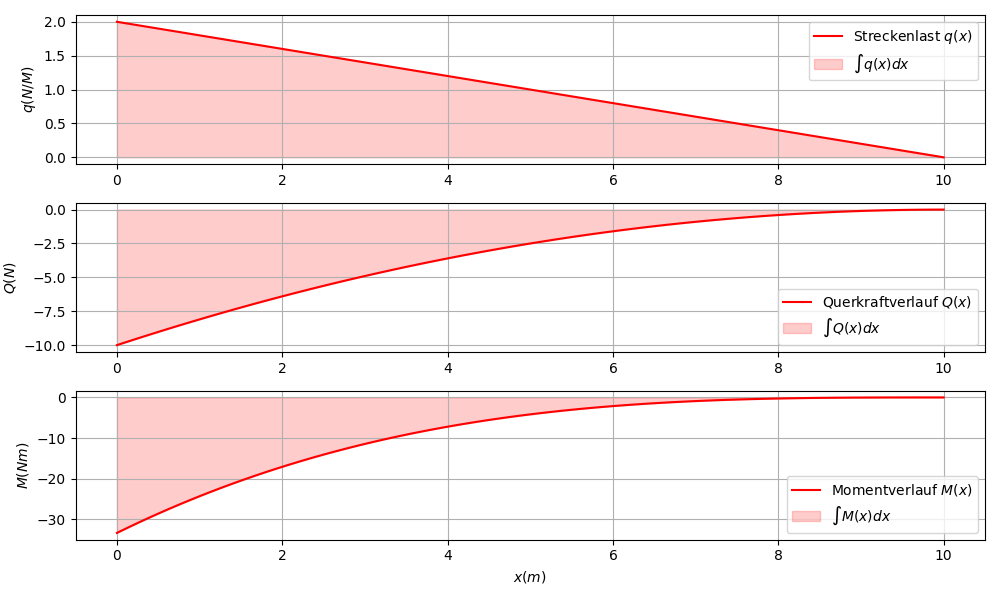
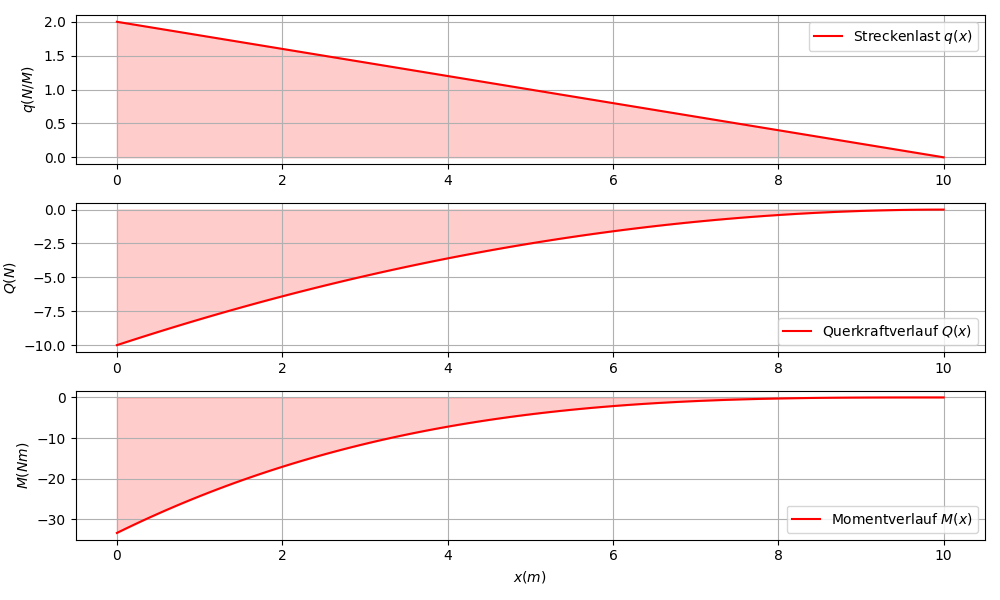
overridden picture

Changed region(s): [[0.775, 0.48, 0.992, 0.57], [0.775, 0.78, 0.992, 0.87], [0.806, 0.09, 0.93, 0.12]]

diff --git a/Code/Approximation_Integral/InternalForces.py b/Code/Approximation_Integral/InternalForces.py
@@ -40,20 +40,20 @@ def plot_internal_forces():
 
     ax1.plot(x, q_values, label=r'Streckenlast $q(x)$', color='r')
     ax1.set_ylabel(r'$q (N/M)$')
-    ax1.fill_between(x, q_values, color='red', alpha=0.2, label=r'$\int q(x) dx$')
+    ax1.fill_between(x, q_values, color='red', alpha=0.2)
     ax1.legend()
     ax1.grid()
 
     ax2.plot(x, Q_values, label=r'Querkraftverlauf $Q(x)$', color='r')
     ax2.set_ylabel(r'$Q (N)$')
-    ax2.fill_between(x, Q_values, color='red', alpha=0.2, label=r'$\int Q(x) dx$')
+    ax2.fill_between(x, Q_values, color='red', alpha=0.2)
     ax2.legend()
     ax2.grid()
 
     ax3.plot(x, M_values, label=r'Momentverlauf $M(x)$', color='r')
     ax3.set_xlabel(r'$x (m)$')
     ax3.set_ylabel(r'$M (Nm)$')
-    ax3.fill_between(x, M_values, color='red', alpha=0.2, label=r'$\int M(x) dx$')
+    ax3.fill_between(x, M_values, color='red', alpha=0.2)
     ax3.legend()
     ax3.grid()
 
